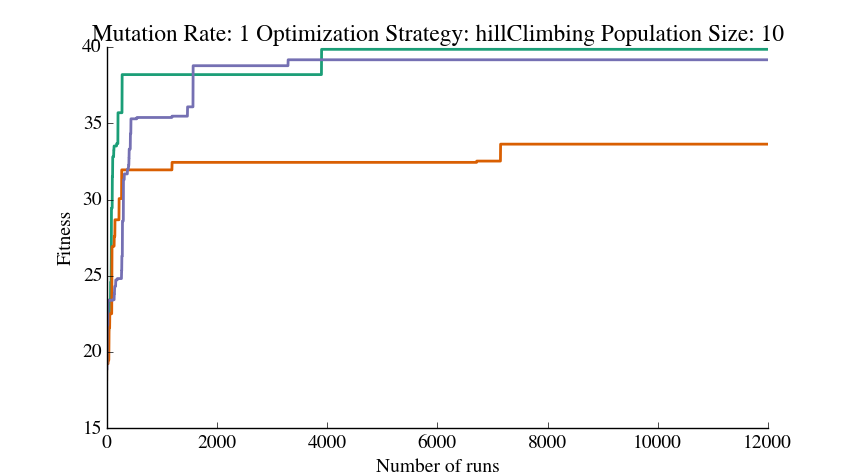
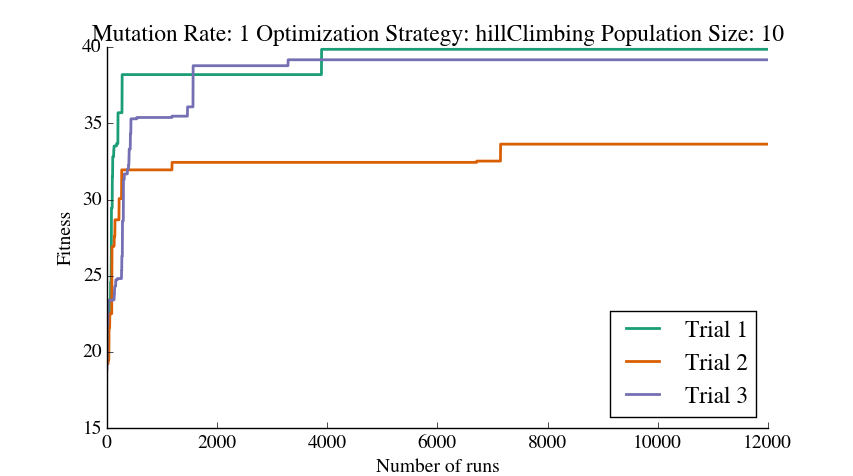
new graphs

Changed region(s): [[0.7011, 0.6471, 0.9144, 0.8824]]

diff --git a/graphing/graphing_minmaxavg.py b/graphing/graphing_minmaxavg.py
@@ -80,16 +80,21 @@ def graph_fitness(filenames):
     # plt.boxplot(fitnesses)
     # for m in max_fit:
 
+
     plt.plot(max_fits[0], label='Trial 1')
     plt.plot(max_fits[1], label='Trial 2')
     plt.plot(max_fits[2], label='Trial 3')
+    # plt.plot(max_fits[3], label='D')
 
     # plt.plot(avg_fit, label='Avg fitness')
     # plt.plot(min_fit, label='Min fitness')
 
     remove_border()
+    axes = plt.gca()
 
-    # plt.legend(loc=3)
+    # axes.set_ylim([0,100])
+
+    plt.legend(loc=4)
 
     plt.xlabel("Number of runs")
     plt.ylabel("Fitness") 
@@ -114,9 +119,14 @@ def graph_fitness(filenames):
 # topbumpy_graph_hc.png
 # topsquiggly_graph_more_hc.png
 # hillClimbGraphCombined.png
+# topcombined_graph_hc.png
 
 
 
 # graph_fitness('../target_curves/topsquiggly_runstats_more_hc.json')
 graph_fitness(['amanda_hc/hillClimb1Stats.json', 'amanda_hc/hillClimb2Stats.json', 'amanda_hc/hillClimb3Stats.json'])
+
+# graph_fitness(['../target_curves/topflat_runstats_hc.json', '../target_curves/topsmall_runstats_hc.json', '../target_curves/toploopy_runstats_hc.json', '../target_curves/topsquiggle_runstats_hc.json'])
+
+
 
